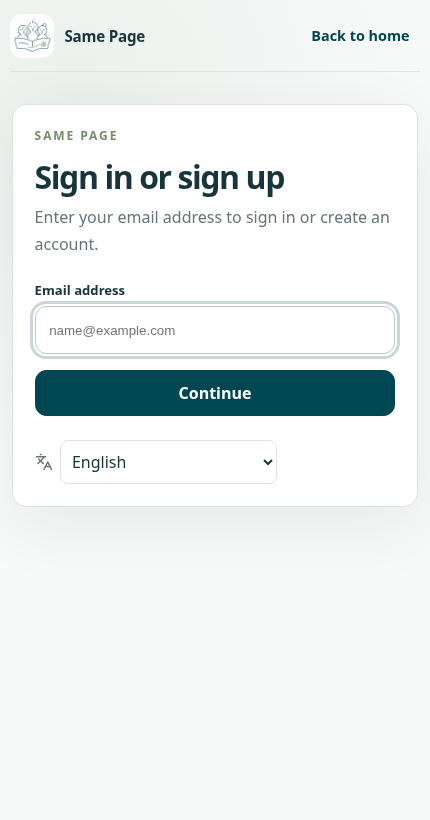
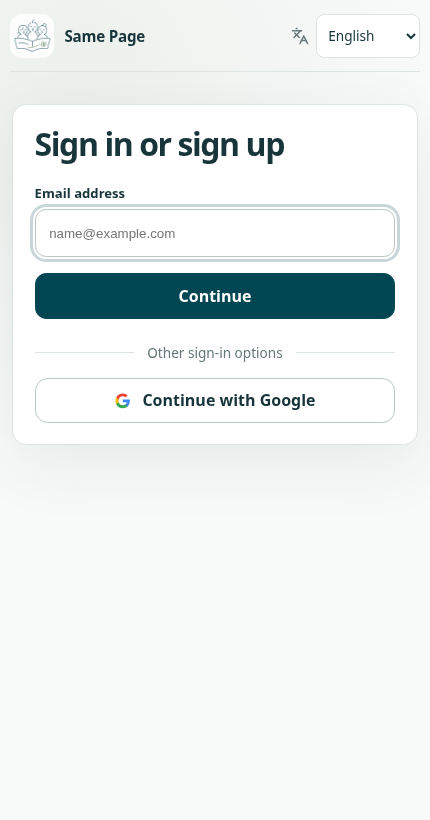
fix: 整理登录语言入口和排练阅谱界面

diff --git a/src/client/routes/auth-page.tsx b/src/client/routes/auth-page.tsx
@@ -530,7 +530,6 @@ export default function AuthPage() {
       case "identify":
         return {
           title: t("authIdentify"),
-          description: t("authIdentifyDescription"),
           form: (
             <Form className="entry-form" onSubmit={identifyEmail}>
               <EmailField value={email} onChange={setEmail} autoFocus />
@@ -796,17 +795,19 @@ export default function AuthPage() {
   return (
     <div ref={authPageRef} className="app-page auth-page">
       <AppHeader
-        actions={
-          <Button className="header-action" onPress={() => void cancelEntry()}>{returnTarget ? t("authContinueReadOnly") : t("authBackHome")}</Button>
-        }
+        actions={<LanguageSelect />}
+        onHome={returnTarget ? undefined : event => {
+          if (event.button !== 0 || event.metaKey || event.ctrlKey || event.shiftKey || event.altKey) return;
+          event.preventDefault();
+          void cancelEntry();
+        }}
       />
       <main className="auth-layout">
         <section className="auth-card" aria-labelledby="auth-title">
-          <p className="dialog-eyebrow">{t("authBrand")}</p>
           <h1 id="auth-title" ref={titleRef} tabIndex={-1}>
             {viewPanel.title}
           </h1>
-          <p className="auth-description">{viewPanel.description}</p>
+          {viewPanel.description && <p className="auth-description">{viewPanel.description}</p>}
           {viewPanel.form}
 
           {(view === "identify" || view === "sign-in") && socialProviders.length > 0 ? (
@@ -822,8 +823,8 @@ export default function AuthPage() {
               {message(t)}
             </p>
           ) : null}
-          <div className="auth-language-control"><LanguageSelect /></div>
         </section>
+        {returnTarget?.startsWith("/choirs/") && <Button className="text-button auth-read-only" onPress={() => void cancelEntry()}>{t("authContinueReadOnly")}</Button>}
       </main>
     </div>
   );
@@ -845,11 +846,11 @@ function SocialAuthOptions(props: {
           <Button
             type="button"
             className="social-auth-button"
-            aria-label={t("authContinueGoogle")}
             isDisabled={props.disabled}
             onPress={() => props.onContinue("google")}
           >
             <GoogleIcon />
+            {t("authContinueGoogle")}
           </Button>
         ) : null}
       </div>

diff --git a/src/client/reader/reader-ux.css b/src/client/reader/reader-ux.css
@@ -162,13 +162,31 @@
 .reader-more-menu button:hover,
 .reader-more-menu a:hover { background: var(--ui-soft, #edf1ec); }
 .reader-more-menu button[data-disabled] { opacity: .45; cursor: default; }
+.reader-more-menu .identity-notice {
+  display: grid;
+  justify-items: start;
+  margin: 0 0 .65rem;
+  padding: .6rem .75rem;
+  border-radius: 9px;
+  background: var(--ui-soft, #edf1ec);
+  font-size: .82rem;
+  line-height: 1.5;
+}
+.reader-more-menu .identity-notice > :is(button, a) {
+  margin-inline-start: -.4rem;
+  margin-block-end: -.5rem;
+  padding-inline: .4rem;
+  color: var(--ui-accent, #28634f);
+  font-weight: 600;
+}
 .reader-option-heading { display: flex; justify-content: space-between; align-items: center; gap: 12px; min-height: 34px; }
-.reader-option-heading--status { align-items: baseline; }
+.reader-option-heading--status { align-items: baseline; flex-wrap: wrap; gap: 4px 12px; }
 .reader-option-heading--status h2 { flex-shrink: 0; }
 .reader-option-heading--status p { text-align: right; font-size: 12px; }
 .reader-more-menu .reader-option-action { color: var(--ui-accent, #28634f); font-weight: 600; padding-inline: 10px; margin-right: -10px; }
 .reader-more-menu .segmented-control { display: flex; padding: 4px; gap: 4px; background: var(--ui-soft, #edf0eb); border-radius: 12px; }
-.reader-more-menu .segmented-control button { flex: 1; background: transparent; }
+.reader-more-menu .segmented-control button { flex: 1; min-width: 0; background: transparent; overflow-wrap: anywhere; }
+.reader-more-menu .segmented-control button > svg { flex-shrink: 0; }
 .reader-more-menu button[aria-pressed="true"] { color: var(--ui-accent, #234c3b); background: var(--ui-surface, #fff); outline: none; box-shadow: 0 1px 4px #263e2f14; }
 .reader-more-menu__zoom { display: grid; grid-template-columns: minmax(0, 1fr) 40px 48px 40px; align-items: center; gap: 0; }
 .reader-more-menu__zoom > button:first-child { justify-self: start; padding-left: 0; font-size: 12px; }

diff --git a/src/client/score-library/drive-preparation.tsx b/src/client/score-library/drive-preparation.tsx
@@ -23,21 +23,24 @@ export function DrivePreparation({ choirId, accountReady }: { choirId: string; a
         : <InstallButton className="primary-button" />)}
       {installed && !accountReady && <Link className="primary-button" to={login}>{t("drivePreparationRegisterLogStartTaking")}</Link>}
     </>}>
-    <ol className="preparation-steps">
+    {accountReady ? <>
+      {pendingInstall && <strong>{t("drivePreparationAddRequestSubmitted")}</strong>}
+      <p>{pendingInstall ? t("drivePreparationReturnDesktopClickScore") : t("drivePreparationLikeOtherAppsOpened")}</p>
+    </> : <ol className="preparation-steps">
       <li data-complete={installed || undefined}>
         <span className="preparation-step-marker" aria-hidden="true">{installed ? <Check size={16} /> : "1"}</span>
         <div><strong>{installed ? t("drivePreparationAddedDesktop") : pendingInstall ? t("drivePreparationAddRequestSubmitted") : t("drivePreparationAddDesktop")}</strong>
           {!installed && <p>{pendingInstall ? t("drivePreparationReturnDesktopClickScore") : t("drivePreparationLikeOtherAppsOpened")}</p>}
         </div>
       </li>
-      <li data-complete={accountReady || undefined}>
-        <span className="preparation-step-marker" aria-hidden="true">{accountReady ? <Check size={16} /> : "2"}</span>
-        <div><strong>{accountReady ? t("drivePreparationLoginJoinCloudDisk") : t("drivePreparationLogSaveSyncNotes")}</strong>
-          {!accountReady && <p>{install.runningInApp
+      <li>
+        <span className="preparation-step-marker" aria-hidden="true">2</span>
+        <div><strong>{t("drivePreparationLogSaveSyncNotes")}</strong>
+          <p>{install.runningInApp
             ? t("drivePreparationRegisterLogAddCloud")
-            : t("drivePreparationRecommendedLogAfterOpening")}</p>}
+            : t("drivePreparationRecommendedLogAfterOpening")}</p>
         </div>
       </li>
-    </ol>
+    </ol>}
   </DriveSuggestion>;
 }

diff --git a/src/client/styles.css b/src/client/styles.css
@@ -558,9 +558,13 @@ h1 {
 .app-footer {
   display: flex;
   align-items: center;
+  justify-content: space-between;
+  flex-wrap: wrap;
+  gap: .5rem 1.5rem;
   width: min(76rem, calc(100% - 2.5rem));
   min-height: 4.5rem;
   margin: 0 auto;
+  padding-block: .75rem;
   border-top: 1px solid var(--line);
   color: var(--muted);
   font-size: 0.84rem;
@@ -1096,6 +1100,7 @@ h1 {
 .auth-layout {
   display: grid;
   place-items: start center;
+  gap: .75rem;
   padding: clamp(3rem, 8vw, 7rem) 1rem;
   padding-bottom: calc(clamp(3rem, 8vw, 7rem) + var(--input-keyboard-inset, 0px));
 }
@@ -1117,6 +1122,11 @@ h1 {
 .auth-card .entry-form {
   max-width: none;
   margin-top: 1.5rem;
+}
+
+.auth-read-only {
+  justify-self: center;
+  min-height: 44px;
 }
 
 .social-auth-options {
@@ -1147,21 +1157,25 @@ h1 {
 }
 
 .social-auth-button {
-  display: inline-grid;
-  place-items: center;
-  width: 3rem;
-  min-width: 3rem;
-  height: 3rem;
+  display: inline-flex;
+  align-items: center;
+  justify-content: center;
+  gap: .65rem;
+  width: 100%;
+  min-height: 44px;
   border: 1px solid var(--ui-line, #b9c8c4);
   border-radius: 0.8rem;
-  padding: 0.65rem;
+  padding: 0.65rem 0.85rem;
+  color: var(--ink);
   background: var(--ui-surface, #fff);
+  font: inherit;
+  font-weight: 600;
   cursor: pointer;
 }
 
 .social-auth-button svg {
-  width: 100%;
-  height: 100%;
+  flex: 0 0 1.1rem;
+  height: 1.1rem;
 }
 
 .social-auth-button:hover,

diff --git a/src/client/auth/local-entry.tsx b/src/client/auth/local-entry.tsx
@@ -6,10 +6,10 @@ import type { ApplicationIdentity } from "./application-identity";
 export function IdentityNotice({ identity }: { identity: ApplicationIdentity }) {
   const t = useMessages("entry");
   if (identity.onlineState === "authenticated" || (!identity.localUserId && identity.onlineState === "signed-out")) return null;
-  return <p role="status">{identity.onlineState === "checking" ? t("identity.checking")
+  return <p className="identity-notice" role="status"><span>{identity.onlineState === "checking" ? t("identity.checking")
     : identity.onlineState === "local-unavailable" ? t("identity.localUnavailable")
     : identity.onlineState === "unreachable" ? t("identity.unreachable")
-    : t("identity.signedOut")}
+    : t("identity.signedOut")}</span>
     {identity.onlineState === "signed-out" ? <> <Link to="/login">{t("identity.loginAgain")}</Link></> : null}
     {identity.onlineState === "unreachable" || identity.onlineState === "local-unavailable" ? <> <button className="text-button" disabled={identity.session.isRefetching} onClick={() => void identity.session.refetch()}>{identity.session.isRefetching ? t("identity.retrying") : identity.onlineState === "local-unavailable" ? t("identity.retryVerify") : t("identity.retryConnection")}</button></> : null}
   </p>;

diff --git a/src/client/components/app-header.tsx b/src/client/components/app-header.tsx
@@ -1,23 +1,22 @@
 import { useAppLocale, useMessages } from "../../i18n";
 import { assetUrl } from "../../shared/asset-url";
-import type { ReactNode } from "react";
+import type { MouseEventHandler, ReactNode } from "react";
 import { Link } from "react-router-dom";
 import "../settings/settings-ux.css";
 
-export function AppHeader({ actions }: { actions?: ReactNode }) {
+export function AppHeader({ actions, onHome }: { actions?: ReactNode; onHome?: MouseEventHandler<HTMLAnchorElement> }) {
   const t = useMessages("common");
   const { locale } = useAppLocale();
   const chineseBrand = locale === "zh-Hans" || locale === "zh-Hant-TW";
   return (
     <header className="app-header">
-      <Link className="brand-link" to="/" state={{ home: true }} aria-label={t("brandHome")}>
+      <Link className="brand-link" to="/" state={{ home: true }} aria-label={t("brandHome")} onClick={onHome}>
         <img src={assetUrl("icon-192.png")} alt="" width="44" height="44" />
         {chineseBrand && <span className="brand-name-zh" lang={locale}>{t("brandChinese")}</span>}
         <span className={chineseBrand ? "brand-name-en" : undefined} lang="en">Same Page</span>
       </Link>
       <nav className="app-header__actions">
         {actions}
-
       </nav>
     </header>
   );

diff --git a/src/i18n/language-select.css b/src/i18n/language-select.css
@@ -1,24 +1,28 @@
-.app-language-selector-row {
-  display: flex;
-  justify-content: flex-end;
-  width: min(76rem, calc(100% - 2.5rem));
-  margin: 0 auto 1rem;
-}
-
 .app-language-select {
-  display: inline-flex;
+  display: inline-grid;
+  grid-template-columns: auto minmax(0, max-content);
   align-items: center;
   gap: .45rem;
   color: var(--muted);
-  flex-wrap: wrap;
+  min-width: 0;
 }
 
-.app-language-error { font-size: .85rem; }
+.app-language-error { grid-column: 1 / -1; font-size: .85rem; }
 
-.auth-language-control { margin-top: 1.5rem; }
+.app-header .app-language-select { max-width: 13rem; font-size: .85rem; }
+.app-header .app-language-select select { field-sizing: content; min-inline-size: 6.5rem; }
+
+.app-language-select[data-labeled] {
+  display: grid;
+  grid-template-columns: auto minmax(0, 1fr) minmax(0, 14rem);
+  column-gap: .65rem;
+  color: var(--ink);
+  font-size: .9rem;
+}
 
 .app-language-select select {
   min-height: 44px;
+  min-width: 0;
   max-width: 14rem;
   padding: .35rem .45rem;
   border: 1px solid var(--line);

diff --git a/src/client/routes/personal-settings-page.tsx b/src/client/routes/personal-settings-page.tsx
@@ -1,4 +1,5 @@
 import { useMessages } from "../../i18n";
+import { LanguageSelect } from "../../i18n/language-select";
 import { UserRound } from "lucide-react";
 import { useApplicationIdentity } from "../auth/application-identity";
 import { IdentityNotice } from "../auth/local-entry";
@@ -21,6 +22,7 @@ export default function PersonalSettingsPage() {
         {identity.localUserId ? <button className="secondary-button" onClick={() => void logout.request()}>{t("signOut")}</button> : !identity.restoring && identity.onlineState === "signed-out" && <Link className="secondary-button" to="/login">{t("signIn")}</Link>}
       </div>
       <IdentityNotice identity={identity} />
+      <LanguageSelect showLabel />
       <section className="personal-settings-data"><h2>{t("userData")}</h2><Link className="settings-secondary-link settings-danger-link" to="/user/lifecycle">{t("deleteUser")}<span aria-hidden="true">›</span></Link><p>{t("driveSettingsHint")}</p></section>
     </main>
   </div>;

diff --git a/src/i18n/language-select.tsx b/src/i18n/language-select.tsx
@@ -3,11 +3,12 @@ import { useAppLocale, useMessages } from "./context";
 import { isAppLocale, localeNames, supportedLocales } from "./locales";
 import "./language-select.css";
 
-export function LanguageSelect() {
+export function LanguageSelect({ showLabel = false }: { showLabel?: boolean }) {
   const { locale, setLocale, requestedLocale, loadFailed } = useAppLocale();
   const t = useMessages("language");
-  return <label className="app-language-select">
+  return <label className="app-language-select" data-labeled={showLabel || undefined}>
     <Languages size={18} aria-hidden="true" />
+    {showLabel && <span>{t("label")}</span>}
     <select aria-label={t("label")} aria-busy={requestedLocale !== null} value={requestedLocale ?? locale} onChange={(event) => {
       if (isAppLocale(event.target.value)) setLocale(event.target.value);
     }}>

diff --git a/src/client/app.tsx b/src/client/app.tsx
@@ -11,7 +11,6 @@ import { TaskHeader } from "./components/task-header";
 import { lazy, useLayoutEffect, useState } from "react";
 import { createBrowserRouter, RouterProvider, Outlet, Route, Routes, useLocation, useNavigationType } from "react-router-dom";
 import { useMessages } from "../i18n";
-import { LanguageSelect } from "../i18n/language-select";
 
 import { AppFooter } from "./components/app-footer";
 import { ReloadPrompt } from "./components/reload-prompt";
@@ -120,7 +119,6 @@ function PageWithFooter() {
   const showsFooter = ["/", "/drives"].includes(pathname);
   return <div className="page-with-footer"><Outlet />
     {showsFooter && <AppFooter />}
-    {(showsFooter || pathname === "/user") && <div className="app-language-selector-row"><LanguageSelect /></div>}
   </div>;
 }
 

diff --git a/src/client/components/app-footer.tsx b/src/client/components/app-footer.tsx
@@ -1,4 +1,5 @@
 import { useMessages } from "../../i18n";
+import { LanguageSelect } from "../../i18n/language-select";
 import { Link } from "react-router-dom";
 import { connectionsEnabled, connectionWebsites } from "../connection/connection";
 
@@ -15,6 +16,7 @@ export function AppFooter() {
         <Link to="/privacy">{t("privacy")}</Link>
         {connectionsEnabled && <a href={connectionWebsites.backup} target="_blank" rel="noopener noreferrer">{t("backup")}</a>}
       </nav>
+      <LanguageSelect />
     </footer>
   );
 }
